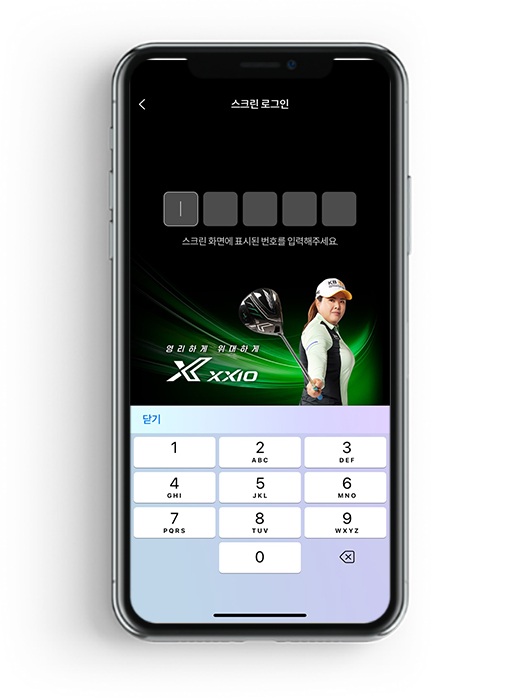
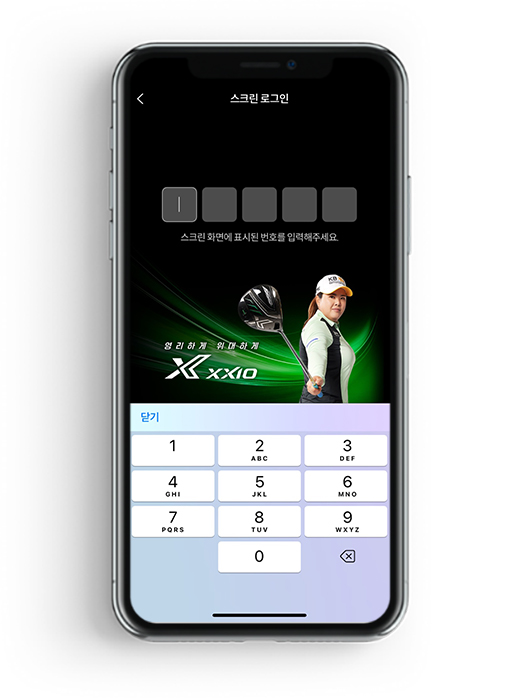
.

diff --git a/main.html b/main.html
@@ -104,7 +104,7 @@
                       </div>
                       <div class="swiper-slide mt_img" style="background-image:url('images/main/nature-2.jpg?ver=3');background-repeat:no-repeat;background-size:cover;width:100%;height:963px;">
                         <div class="mt_img_text">
-                            <p style="margin-top: 20px">경제력이 높은 3050 타겟<br />이용횟수 매일 240,836회(RND)<br><em style="font-size: 14px;line-height: 20px;">*2022년 기준</em></p>
+                            <p style="margin-top: 20px">강한 구매력, 3050 타겟<br />이용횟수 매일 240,836회(RND)<br><em style="font-size: 14px;line-height: 20px;">*2022년 기준</em></p>
                             <p style="margin-top: 10px">골프존의 프리미엄 타겟은 언제든<br />여러분의 제품과 서비스를 경험할 준비가 되어있습니다.</p>
                         </div>
                       </div>

diff --git a/m/index.html b/m/index.html
@@ -102,7 +102,7 @@
                 <div class="swiper-container_top">
                     <div class="swiper-wrapper">
                       <div class="swiper-slide"><img src="images/main/img_main_top_visual11.jpg"></div>
-                      <div class="swiper-slide"><img src="images/main/img_main_top_visual12.jpg"></div>
+                      <div class="swiper-slide"><img src="images/main/img_main_top_visual12.jpg?ver=2"></div>
                       <div class="swiper-slide"><img src="images/main/img_main_top_visual13.jpg"></div>
                     </div>
                 </div>

diff --git a/sub/golfzon/app.html b/sub/golfzon/app.html
@@ -181,7 +181,7 @@
                     <div class="tab1_content">
                         <h3>스크린 로그인 스킨</h3>
                         <div class="movie_wrap" style="overflow:hidden;text-align:center;height:auto">
-                            <img src="../../images/sub/img_app5.jpg" alt="스크린 로그인 스킨" />
+                            <img src="../../images/sub/img_app5.jpg?ver=5" alt="스크린 로그인 스킨" />
                         </div>
                         <div class="practice_info_wrap w50">
                             <dl>

diff --git a/m/sub/golfzon/app4.html b/m/sub/golfzon/app4.html
@@ -127,7 +127,7 @@
             <div class="sub_cont" style="margin-top:7rem">
                 <h3>스크린 로그인 스킨</h3>
                 <div class="movie_wrap">
-                    <img src="../../images/sub/img_app5.jpg" alt="" />
+                    <img src="../../images/sub/img_app5.jpg?ver=5" alt="" />
                 </div>
                 <div class="practice_info_wrap">
                     <dl>

diff --git a/css/sub.css b/css/sub.css
@@ -230,7 +230,7 @@ body,#wrap{width:100%;height:100%}
 }
 .round-title .text{
 	line-height: 1.6;
-	font-size: 18px;
+	font-size: 22px;
 	font-weight: 400;
 }
 
